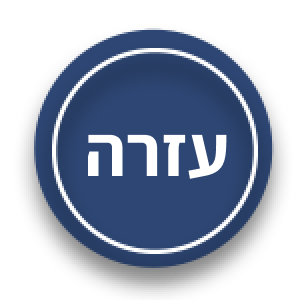
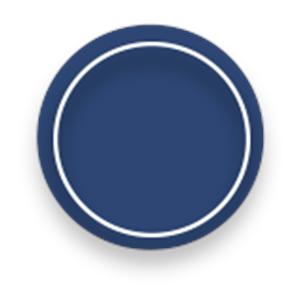
refactor(assets): replace baked-text help button images with live HTML label
The Figma component (44:41 — "Open Close Popup Btn") already separates the
circle graphic from the "עזרה" text as independent layers. The previous
btn-help-open-normal/hover.png were flattened exports that baked the Hebrew
label into the image. This commit aligns the runtime implementation with
the Figma source.

Changes:
Image assets (2 replaced):
  - btn-help-open-normal.png: text-free dark circle + white ring (300×300,
    cropped from Figma 1920×1080 canvas asset, node 44:40)
  - btn-help-open-hover.png:  text-free navy circle + white ring (300×300,
    cropped from Figma 1920×1080 canvas asset, node 61:154)
  - btn-help-close-normal/hover.png: unchanged (X icon, no text)

HTML (index.html):
  - 11 <button class="help-btn"> elements updated to include:
    <span class="help-btn-label" aria-hidden="true">עזרה</span>
  - Existing aria-label attributes preserved unchanged

CSS (style.css):
  - Add .help-btn-label: position absolute, centred, Assistant Bold 36px
    #fcfafa (matches Figma text node 43:38)
  - Add .help-btn.is-open .help-btn-label { display:none } — hides label
    in Close state (X shown in image, no text in Figma component)

Behaviour preserved:
  - 4-state button (open/close × normal/hover) via CSS background-image swap
  - Popup open/close logic, data-popup wiring, JS classList unchanged
  - Button size/position/z-index unchanged
  - transition: none (instant swap) unchanged

Browser QA (DOM inspection, screen 2 + screen 6):
[…]

diff --git a/index.html b/index.html
@@ -119,7 +119,7 @@
     <div class="dark-overlay"></div>
 
     <!-- כפתור עזרה — מצבים מנוהלים ע"י CSS + class is-open -->
-    <button id="help-btn-s3" class="help-btn" data-popup="help-popup-s3" aria-label="עזרה / סגור"></button>
+    <button id="help-btn-s3" class="help-btn" data-popup="help-popup-s3" aria-label="עזרה / סגור"><span class="help-btn-label" aria-hidden="true">עזרה</span></button>
 
     <!-- אזור תוכן ראשי -->
     <div class="content-area">
@@ -216,7 +216,7 @@
     <div class="dark-overlay"></div>
 
     <!-- כפתור עזרה -->
-    <button id="help-btn-s4" class="help-btn" data-popup="help-popup-s3" aria-label="עזרה"></button>
+    <button id="help-btn-s4" class="help-btn" data-popup="help-popup-s3" aria-label="עזרה"><span class="help-btn-label" aria-hidden="true">עזרה</span></button>
 
     <!-- אזור תוכן — breadcrumb + רקע textbox2 בלבד -->
     <div class="content-area">
@@ -342,7 +342,7 @@
     <div class="dark-overlay"></div>
 
     <!-- כפתור עזרה — מחובר ל-popup נפרד לשאלה 2 -->
-    <button id="help-btn-s5" class="help-btn" data-popup="help-popup-s4" aria-label="עזרה"></button>
+    <button id="help-btn-s5" class="help-btn" data-popup="help-popup-s4" aria-label="עזרה"><span class="help-btn-label" aria-hidden="true">עזרה</span></button>
 
     <!-- אזור תוכן ראשי (פאנל שמאל בלבד — ימין ברמת מסך) -->
     <div class="content-area">
@@ -561,7 +561,7 @@
     <img class="screen-bg" src="assets/images/bg-question-common.png" alt="">
     <div class="dark-overlay"></div>
 
-    <button id="help-btn-s6" class="help-btn" data-popup="help-popup-s6" aria-label="עזרה"></button>
+    <button id="help-btn-s6" class="help-btn" data-popup="help-popup-s6" aria-label="עזרה"><span class="help-btn-label" aria-hidden="true">עזרה</span></button>
 
     <div class="content-area">
       <nav class="breadcrumb" dir="ltr" aria-label="ניווט שאלות">
@@ -659,7 +659,7 @@
     <img class="screen-bg" src="assets/images/bg-question-common.png" alt="">
     <div class="dark-overlay"></div>
 
-    <button id="help-btn-s7" class="help-btn" data-popup="help-popup-s7" aria-label="עזרה"></button>
+    <button id="help-btn-s7" class="help-btn" data-popup="help-popup-s7" aria-label="עזרה"><span class="help-btn-label" aria-hidden="true">עזרה</span></button>
 
     <div class="content-area">
       <nav class="breadcrumb" dir="ltr" aria-label="ניווט שאלות">
@@ -789,7 +789,7 @@
     <img class="screen-bg" src="assets/images/bg-question-common.png" alt="">
     <div class="dark-overlay"></div>
 
-    <button id="help-btn-s9" class="help-btn" data-popup="help-popup-s9" aria-label="עזרה"></button>
+    <button id="help-btn-s9" class="help-btn" data-popup="help-popup-s9" aria-label="עזרה"><span class="help-btn-label" aria-hidden="true">עזרה</span></button>
 
     <div class="content-area">
       <nav class="breadcrumb" dir="ltr" aria-label="ניווט שאלות">
@@ -891,7 +891,7 @@
     <img class="screen-bg" src="assets/images/bg-question-common.png" alt="">
     <div class="dark-overlay"></div>
 
-    <button id="help-btn-s11" class="help-btn" data-popup="help-popup-s11" aria-label="עזרה"></button>
+    <button id="help-btn-s11" class="help-btn" data-popup="help-popup-s11" aria-label="עזרה"><span class="help-btn-label" aria-hidden="true">עזרה</span></button>
 
     <!-- breadcrumb + textbox2 background + שאלה (פאנל שמאל) -->
     <div class="content-area">
@@ -1099,7 +1099,7 @@
     <img class="screen-bg" src="assets/images/bg-question-common.png" alt="">
     <div class="dark-overlay"></div>
 
-    <button id="help-btn-s12" class="help-btn" data-popup="help-popup-s12" aria-label="עזרה"></button>
+    <button id="help-btn-s12" class="help-btn" data-popup="help-popup-s12" aria-label="עזרה"><span class="help-btn-label" aria-hidden="true">עזרה</span></button>
 
     <!-- breadcrumb + textbox2 background + שאלה (פאנל שמאל) -->
     <div class="content-area">
@@ -1290,7 +1290,7 @@
     <img class="screen-bg" src="assets/images/bg-question-common.png" alt="">
     <div class="dark-overlay"></div>
 
-    <button id="help-btn-s13" class="help-btn" data-popup="help-popup-s13" aria-label="עזרה"></button>
+    <button id="help-btn-s13" class="help-btn" data-popup="help-popup-s13" aria-label="עזרה"><span class="help-btn-label" aria-hidden="true">עזרה</span></button>
 
     <!-- breadcrumb + textbox2 background frame -->
     <div class="content-area">
@@ -1499,7 +1499,7 @@
     <img class="screen-bg" src="assets/images/bg-question-common.png" alt="">
     <div class="dark-overlay"></div>
 
-    <button id="help-btn-s15" class="help-btn" data-popup="help-popup-s15" aria-label="עזרה"></button>
+    <button id="help-btn-s15" class="help-btn" data-popup="help-popup-s15" aria-label="עזרה"><span class="help-btn-label" aria-hidden="true">עזרה</span></button>
 
     <div class="content-area">
       <nav class="breadcrumb" dir="ltr" aria-label="ניווט שאלות">
@@ -1677,7 +1677,7 @@
     <img class="screen-bg" src="assets/images/bg-frame17.png" alt="">
     <div class="dark-overlay"></div>
 
-    <button id="help-btn-s17" class="help-btn" data-popup="help-popup-s17" aria-label="עזרה"></button>
+    <button id="help-btn-s17" class="help-btn" data-popup="help-popup-s17" aria-label="עזרה"><span class="help-btn-label" aria-hidden="true">עזרה</span></button>
 
     <div class="content-area">
       <nav class="breadcrumb" dir="ltr" aria-label="ניווט שאלות">

diff --git a/css/style.css b/css/style.css
@@ -566,6 +566,31 @@ html, body {
   background-image: url('../assets/images/btn-help-close-hover.png');
 }
 
+/* ─── Help button live text label ────────────────────────────
+   Figma: Assistant Bold 36px #fcfafa, centered in the 150×150 button.
+   Label appears only in Open state; hidden in Close state (X shown in image).
+   Figma node: 44:41 / 43:38 (text layer within "Role=Open, State=Normal")
+   ─────────────────────────────────────────────────────────── */
+.help-btn-label {
+  position: absolute;
+  top: 50%;
+  left: 50%;
+  transform: translate(-50%, -50%);
+  font-family: 'Assistant', sans-serif;
+  font-size: 36px;
+  font-weight: 700;           /* Bold — Figma: font-['Assistant:Bold'] */
+  color: #fcfafa;             /* Figma: text-[#fcfafa] */
+  white-space: nowrap;
+  pointer-events: none;
+  user-select: none;
+  line-height: 1;
+}
+
+/* Close state: hide text label — only the X icon in the background image */
+.help-btn.is-open .help-btn-label {
+  display: none;
+}
+
 /* ─── Help Popup (Screens 3 & 4) ───────────────────────────
    הפופ-אפ יושב מחוץ לכל .screen ישירות ב-#app.
    top: 175px = מתחת לכפתור (top:20 + height:150 + 5px gap)
